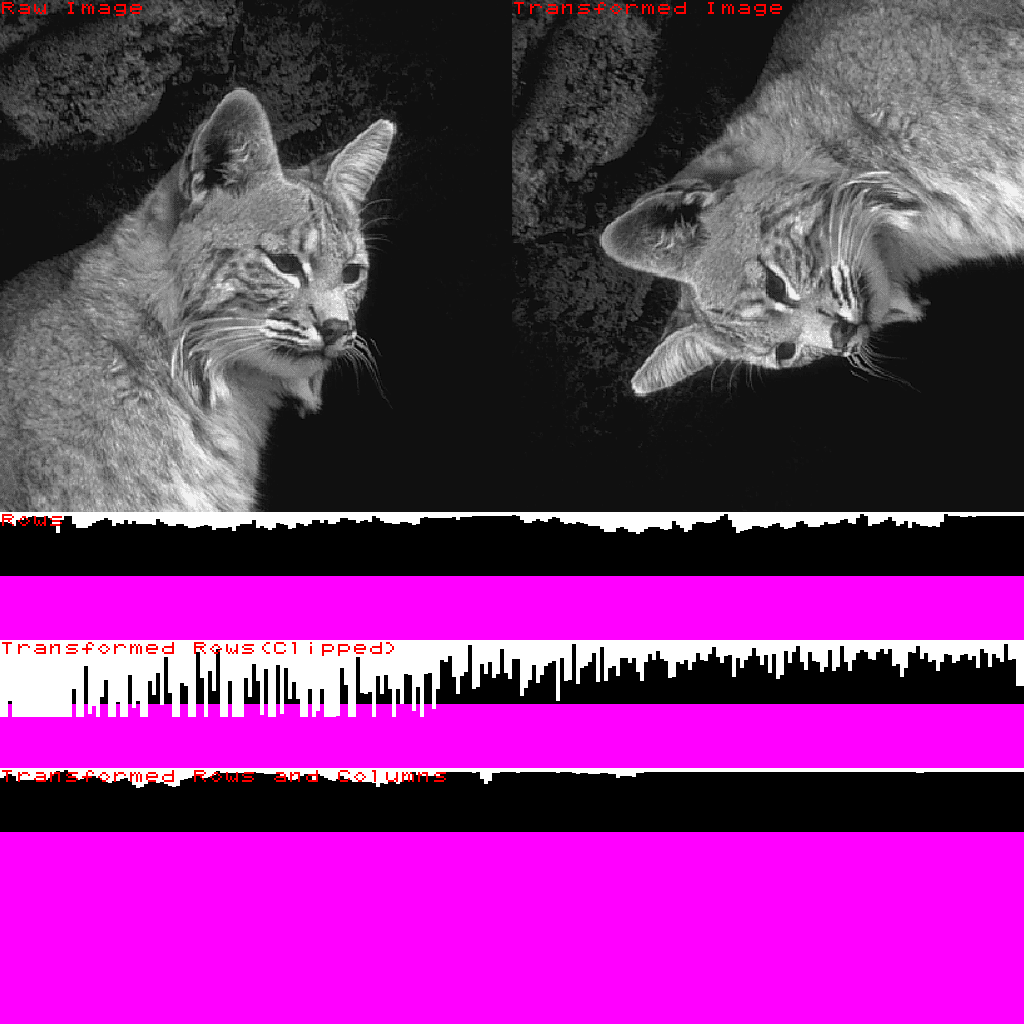
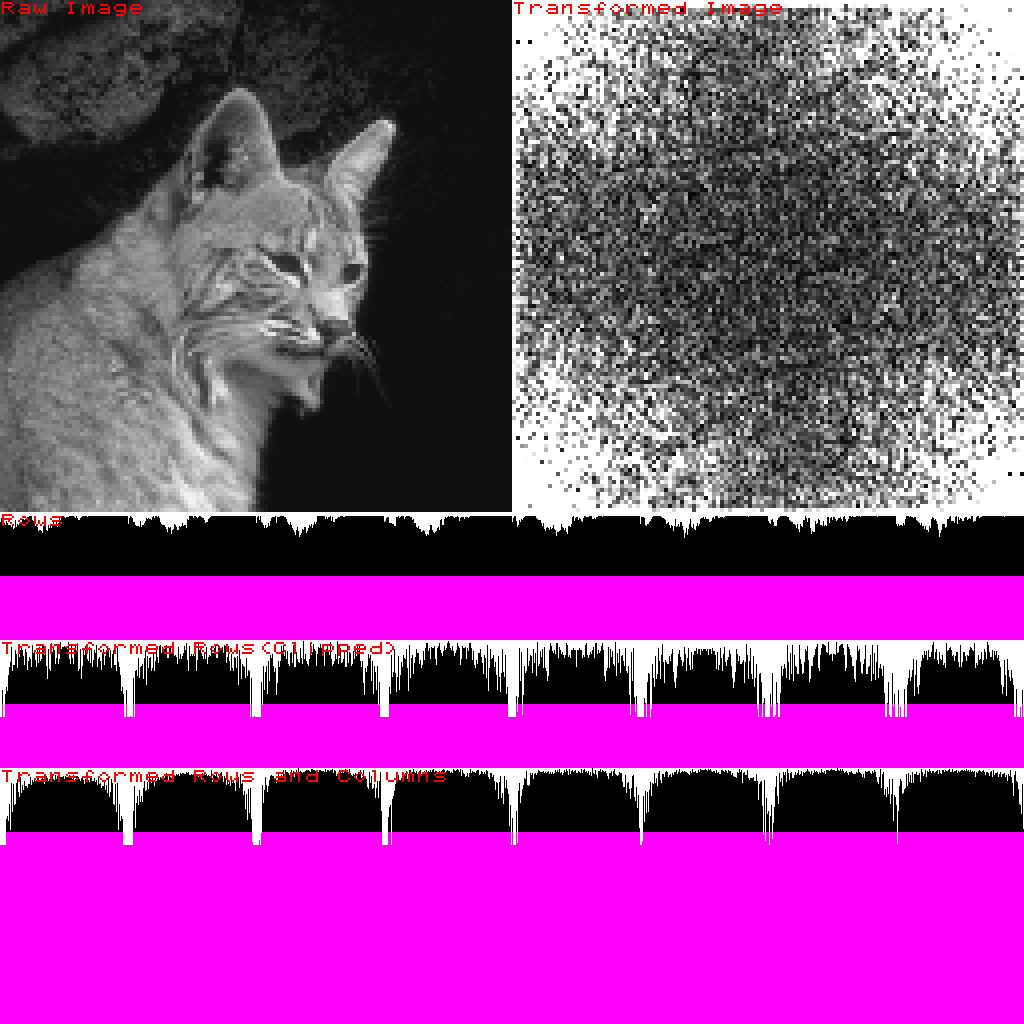
Added scale parameter to BarChart.draw and arrayToSurface

diff --git a/main.cpp b/main.cpp
@@ -7,8 +7,8 @@
 #include <vector>
 using namespace std;
 
-#define FILENAME "resources/cat.png"
-#define SIZE 512
+#define FILENAME "resources/cat128.png"
+#define SIZE 128
 #define WINDOW_WIDTH 1024
 #define WINDOW_HEIGHT 1024
 #define SIZE2 SIZE*SIZE
@@ -60,7 +60,7 @@ struct BarChart {
     float height;
     float barWidth;
 
-    void draw(SDL_Renderer* renderer, const array<complex<float>,SIZE2> * data) {
+    void draw(SDL_Renderer* renderer, const array<complex<float>,SIZE2> * data, float scale = 1.f) {
         const auto n = data->size();
         //Draw Background
         const SDL_FRect rectangle = {position.x,position.y,barWidth * n,height};
@@ -71,7 +71,7 @@ struct BarChart {
         SDL_SetRenderDrawColor(renderer,255,255,255,255);
         for (auto i = 0; i < n; i++) {
             //get the abs of the complex number and clip to fit the chart
-            const float x = min(fabs(data->at(i)),1.2f);
+            const float x = min(fabs(data->at(i)) * scale,1.2f);
             SDL_FRect bar = {position.x + barWidth * i,position.y,barWidth,height * x};
             SDL_RenderFillRectF(renderer,&bar);
         }
@@ -161,10 +161,10 @@ void setPixel(const SDL_Surface * surface, const int i, const float rawColor) {
     *pixel = SDL_MapRGB(surface->format,color,color,color);
 }
 
-SDL_Surface * arrayToSurface(const array<complex<float>,SIZE2> * data) {
+SDL_Surface * arrayToSurface(const array<complex<float>,SIZE2> * data, const float scale = 1.f) {
     SDL_Surface * surface = SDL_CreateRGBSurfaceWithFormat(0, SIZE, SIZE, 32, SDL_PIXELFORMAT_ARGB8888);
     for (int i = 0; i < SIZE2; ++i) {
-        const float rawColor = fabs(data->at(i));
+        const float rawColor = fabs(data->at(i)) * scale;
         setPixel(surface,i,rawColor);
     }
     return surface;
@@ -193,20 +193,20 @@ int main()
     auto transformedArray = complexArray;
     transformData(&transformedArray);
     IMGARRAY columns;
-    rowsToColumns(&complexArray, &columns);
-    //transformData(&columns);
+    rowsToColumns(&transformedArray, &columns);
+    transformData(&columns);
     //auto reverseArray = transformedArray;
     //transformData(&reverseArray, true);
 
-    SDL_Surface * transformedSurface = arrayToSurface(&columns);
+    SDL_Surface * transformedSurface = arrayToSurface(&columns, 0.01f);
     SDL_Texture * transformedTexture = SDL_CreateTextureFromSurface(renderer, transformedSurface);
 
 
     SDL_Rect screen1 = {0,0,512,512};
     SDL_Rect screen2 = {512,0,512,512};
-    BarChart barChart = {0,512,64,4};
-    BarChart barChart2 = {0,512 + 128,64,4};
-    BarChart barChart3 = {0,512 + 256,64,4};
+    BarChart barChart = {0,512,64,1};
+    BarChart barChart2 = {0,512 + 128,64,1};
+    BarChart barChart3 = {0,512 + 256,64,1};
 
 
     labels->add("Raw Image",0,0);
@@ -238,7 +238,7 @@ int main()
 
         barChart.draw(renderer,&complexArray);
         barChart2.draw(renderer,&transformedArray);
-        barChart3.draw(renderer,&columns);
+        barChart3.draw(renderer,&columns,0.01f);
 
         labels->draw();
         SDL_RenderPresent(renderer);
